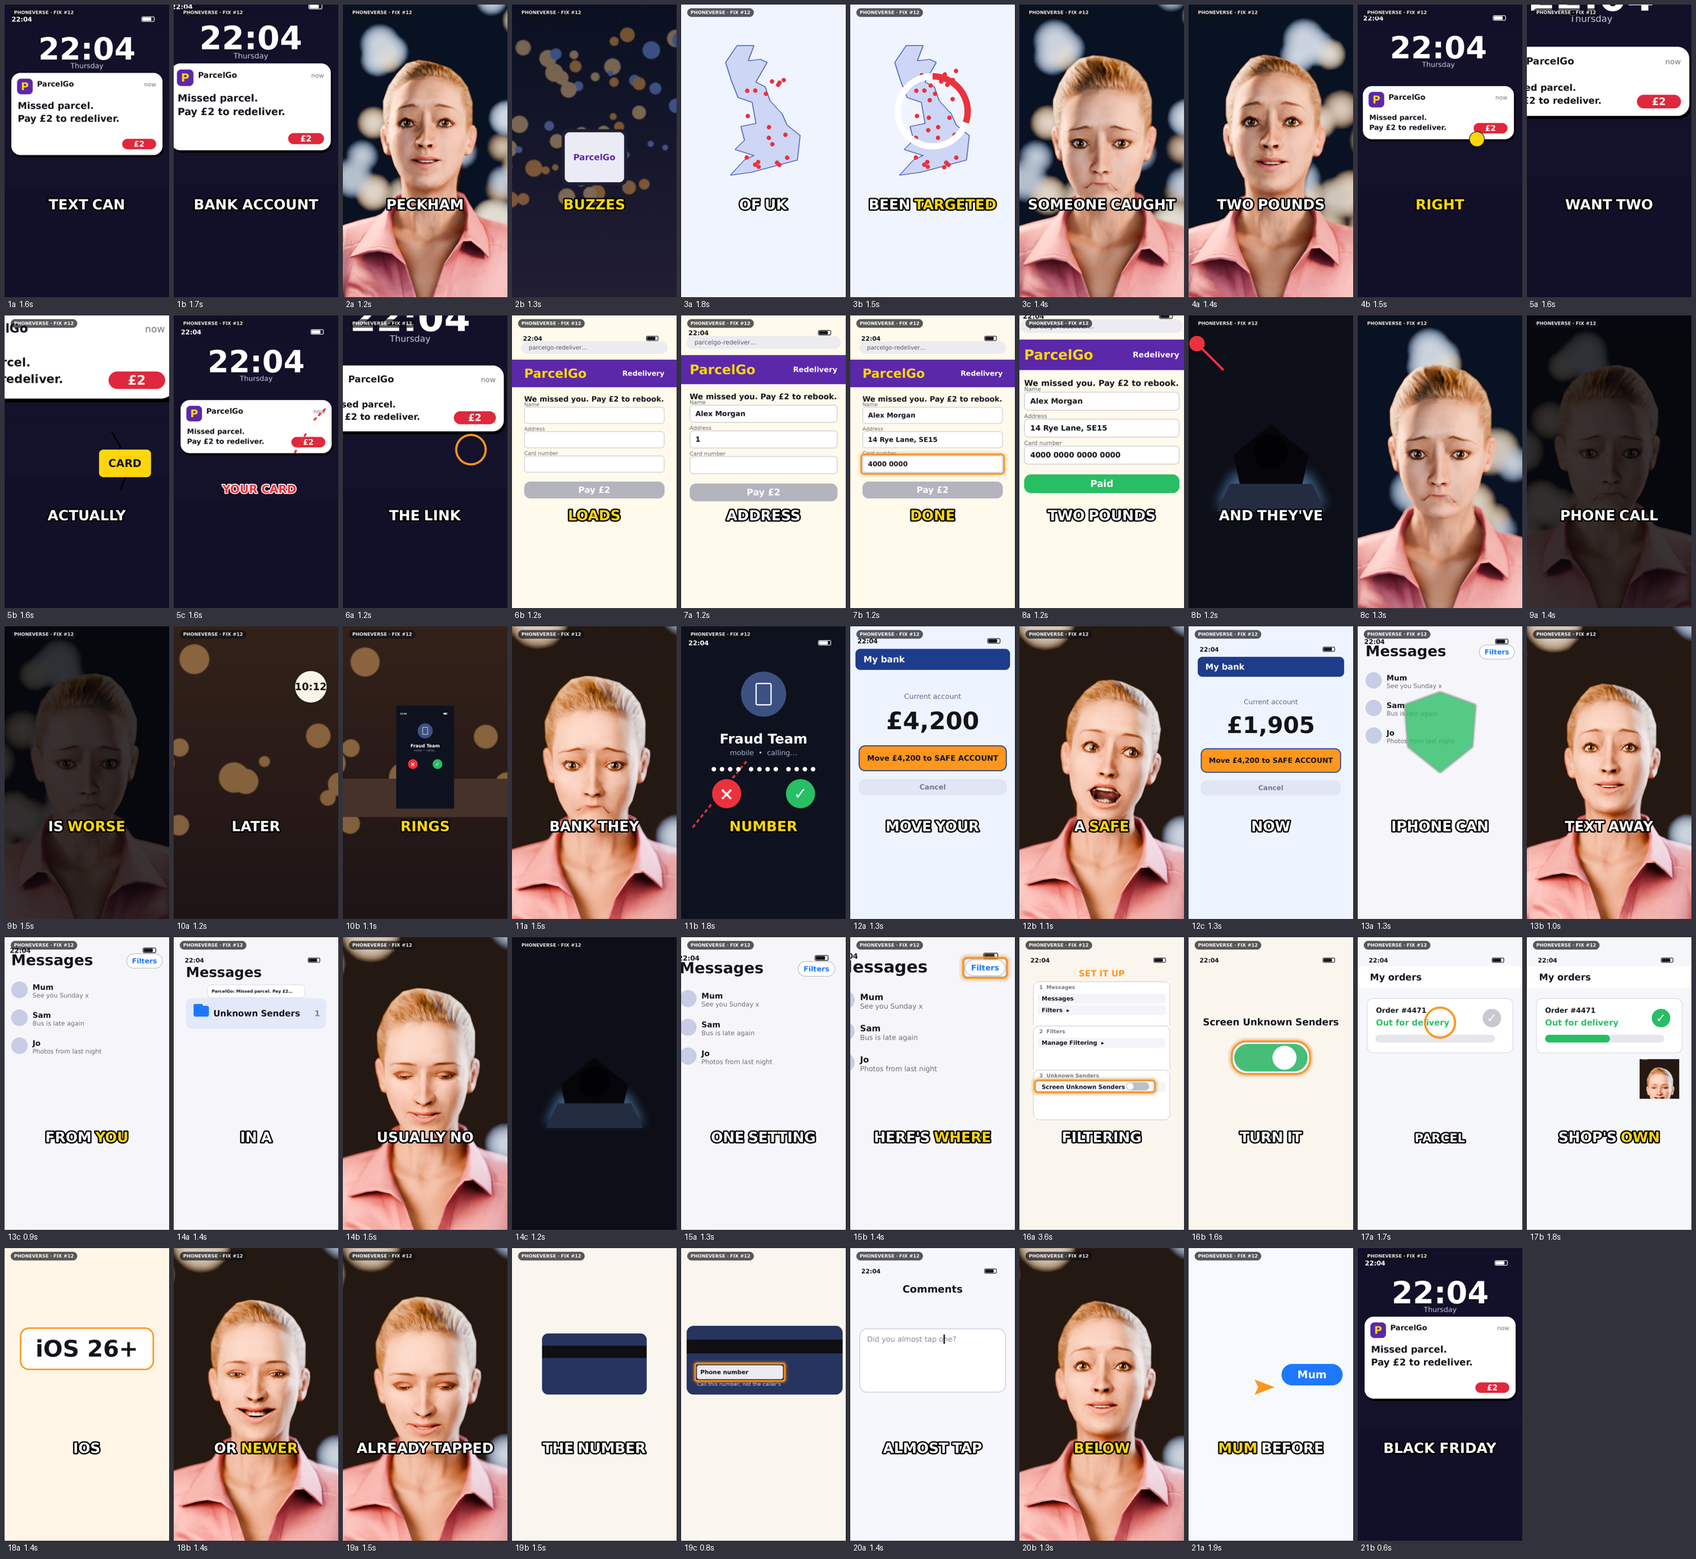
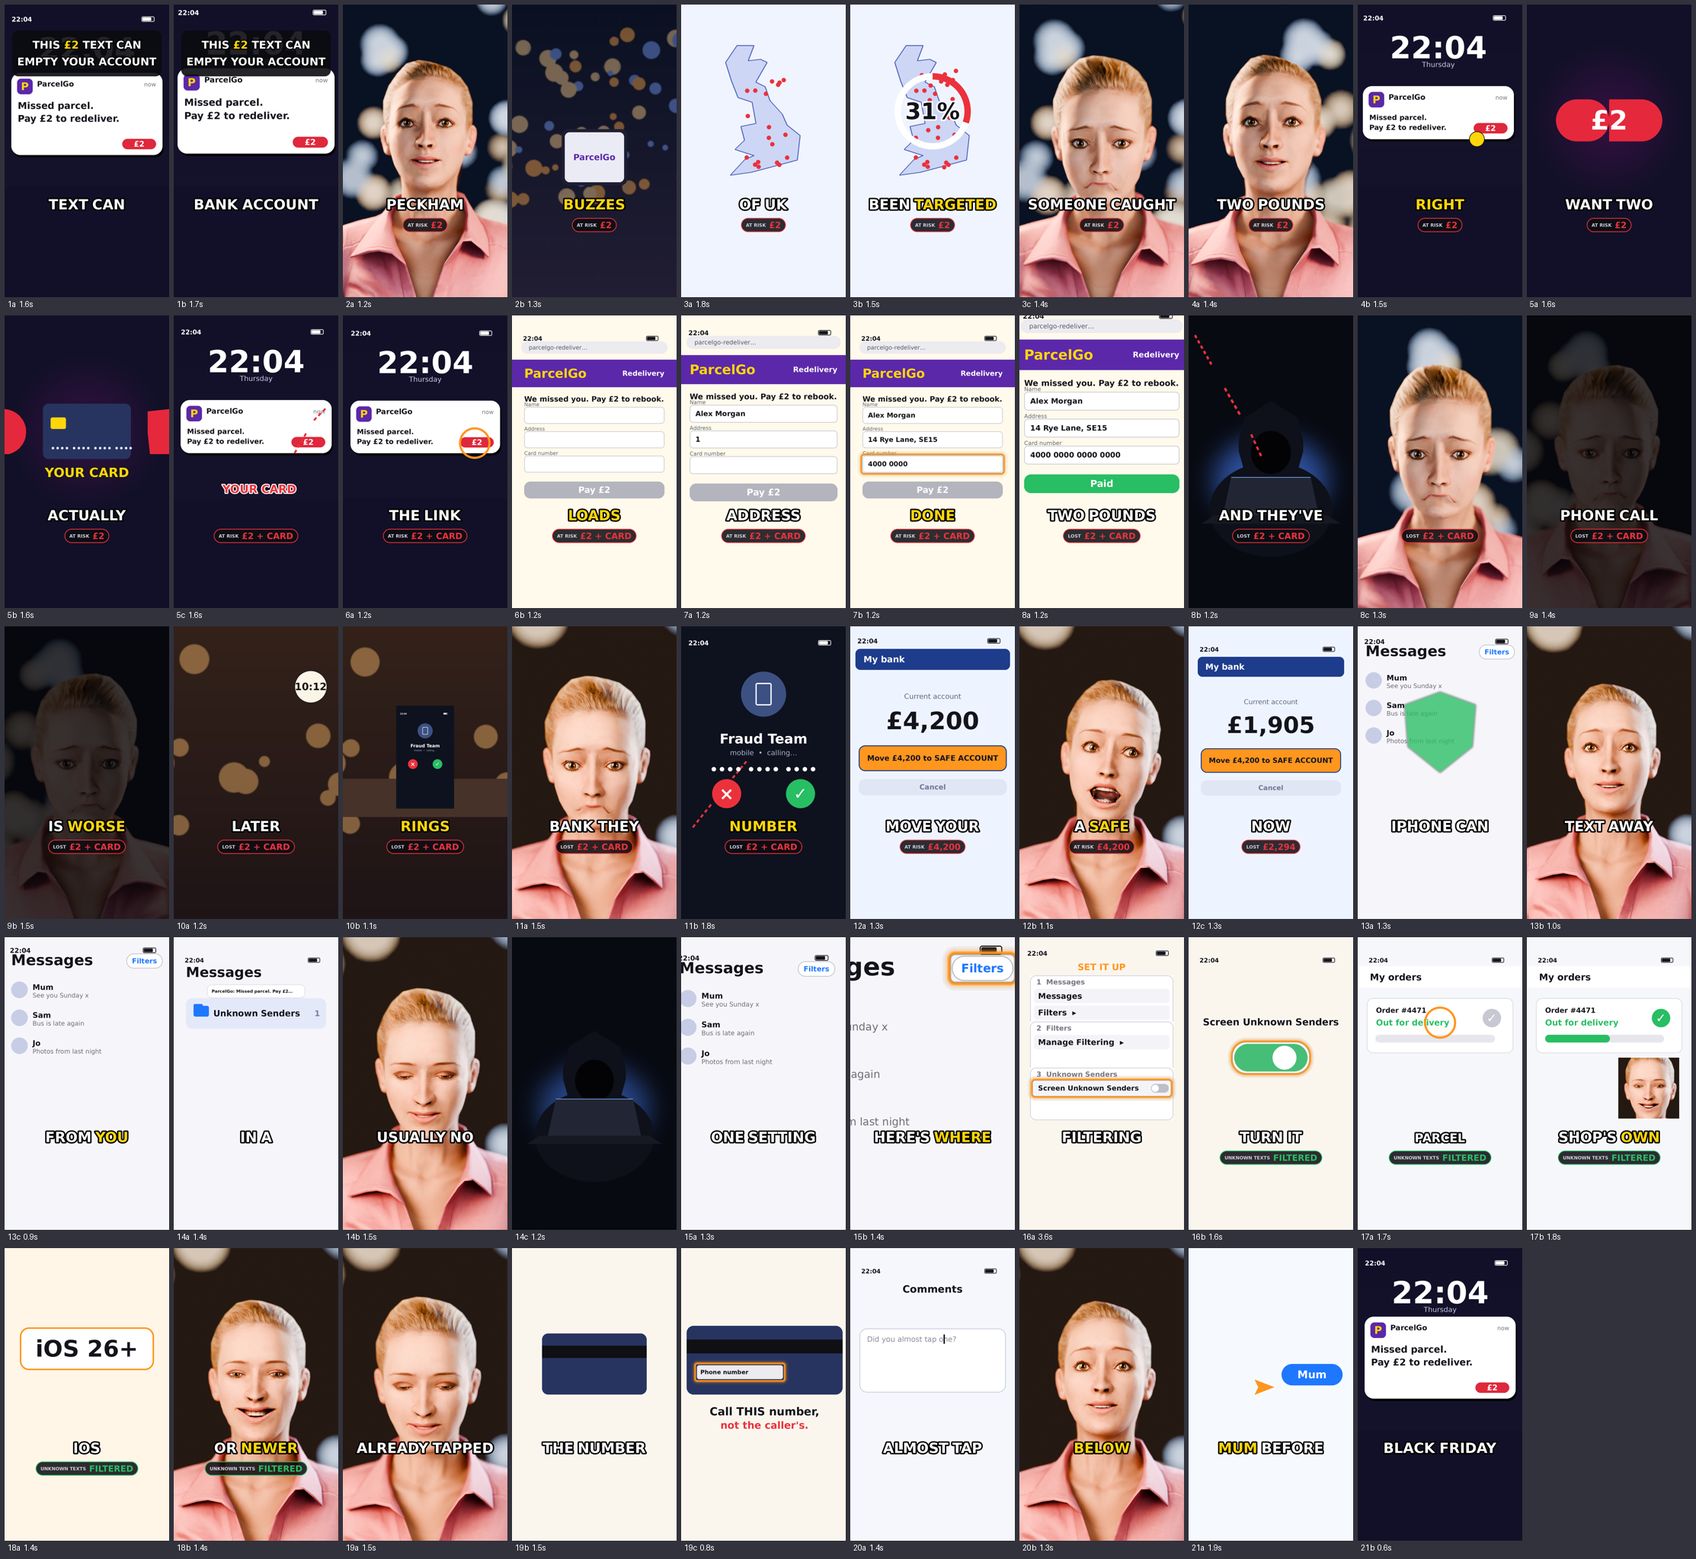
FIX #12 polish (option C): hook title, live risk readout, chip close-ups, hooded figure, bigger small text, no corner tag
Claude-Session: https://claude.ai/code/session_01RDBrbY6BJ5C3xnY2XFgYnR

diff --git a/phoneverse_fix12_studio/render/pvui.py b/phoneverse_fix12_studio/render/pvui.py
@@ -88,9 +88,9 @@ def messages_list(filters_glow=0.0):
 
 def panel(title, rows, glow_row=None, tint=(255, 255, 255)):
     im = Image.new("RGB", (900, 330), tint); d = ImageDraw.Draw(im); rr(d, (0, 0, 899, 329), 36, outline=(205, 205, 215), width=4)
-    text(d, (40, 18), title, 34, (120, 120, 135), True)
+    text(d, (40, 16), title, 44, (120, 120, 135), True)
     for i, r in enumerate(rows):
-        y = 80 + i * 76; rr(d, (30, y, 870, y + 64), 18, fill=(244, 244, 248)); text(d, (56, y + 32), r, 38, INK, True, "lm")
+        y = 84 + i * 104; rr(d, (24, y, 876, y + 90), 20, fill=(244, 244, 248)); text(d, (50, y + 45), r, 50 if len(r) < 20 else 44, INK, True, "lm")
     return im
 
 def settings_card(step=3, toggle_on=False):
@@ -103,9 +103,9 @@ def settings_card(step=3, toggle_on=False):
             if i < 2: text(d, (540, 290 + i * 290 + 300), "▼", 30, ORANGE, True, "mm")
     y0 = 290 + 2 * 290
     if step >= 3:
-        tg = (700, y0 + 76 + 6, 850, y0 + 76 + 58); rr(d, tg, 26, fill=(GREEN if toggle_on else (190, 190, 200)))
+        tg = (850, y0 + 84 + 18, 960, y0 + 84 + 72); rr(d, tg, 26, fill=(GREEN if toggle_on else (190, 190, 200)))
         kx = tg[2] - 26 if toggle_on else tg[0] + 26; d.ellipse((kx - 22, (tg[1] + tg[3]) // 2 - 22, kx + 22, (tg[1] + tg[3]) // 2 + 22), fill=(255, 255, 255))
-        im = glow_box(im, (110, y0 + 76 + 2, 880, y0 + 76 + 62))
+        im = glow_box(im, (110, y0 + 84, 970, y0 + 84 + 90))
     return im
 
 def toggle_closeup(p=1.0):
@@ -142,7 +142,9 @@ def uk_map(p=1.0, ring=0.0, pct=None, dots=24):
     if ring > 0:
         cx, cy, R = 540, 700, 250; d.ellipse((cx - R, cy - R, cx + R, cy + R), outline=(255, 255, 255), width=42)
         d.arc((cx - R, cy - R, cx + R, cy + R), -90, -90 + 360 * (1 / 3) * ease(clamp(ring)), fill=RED, width=42)
-        if pct and ring >= 1: text(d, (cx, cy), pct, 150, INK, True, "mm", stroke=10, stroke_fill=(255, 255, 255)); text(d, (cx, cy + 190), "1 in 3", 70, RED, True, "mm", stroke=8, stroke_fill=(255, 255, 255))
+        if pct:
+            n = int(round(int(pct.rstrip("%")) * ease(clamp(ring)))); text(d, (cx, cy), f"{n}%", 150, INK, True, "mm", stroke=10, stroke_fill=(255, 255, 255))
+            if ring >= 1: text(d, (cx, cy + 190), "1 in 3", 70, RED, True, "mm", stroke=8, stroke_fill=(255, 255, 255))
     return im
 
 def card_back(p=1.0, number_glow=True):
@@ -150,7 +152,7 @@ def card_back(p=1.0, number_glow=True):
     x0 = 540 - w // 2; rr(d, (x0, 560, x0 + w, 960), 40, fill=(40, 52, 96)); d.rectangle((x0, 640, x0 + w, 720), fill=(15, 15, 20))
     if p >= 1:
         rr(d, (x0 + 60, 790, x0 + 560, 870), 12, fill=(235, 235, 240)); text(d, (x0 + 80, 830), "Phone number", 34, INK, True, "lm")
-        text(d, (x0 + 60, 900), "Call this number, not the caller's", 30, (190, 200, 230), False, "lm")
+        text(d, (540, 1060), "Call THIS number,", 64, INK, True, "mm"); text(d, (540, 1140), "not the caller's.", 58, RED, True, "mm")
         if number_glow: im = glow_box(im, (x0 + 60, 790, x0 + 560, 870), r=14)
     return im
 
@@ -193,3 +195,63 @@ if __name__ == "__main__":      # contact sheet of every prop at phone size, for
     for i, (n, im) in enumerate(sheet):
         im = corner_tag(im.convert("RGB")); im = caption(im, ["Check", "this"], [False, True]); S.paste(im.resize((cw, ch)), (10 + (i % cols) * (cw + 10), 10 + (i // cols) * (ch + 10)))
     S.save("docs/props_contact_sheet.png"); print("saved docs/props_contact_sheet.png")
+
+
+# ---- FIX #12 polish pass (option C) -------------------------------------------------------------------------------------
+def chip_closeup(grow=0.0, crack=0.0):
+    """5a/5b: the £2 chip alone, filling the frame (replaces the mid-word crops of the banner). crack 0..1 splits it open on a card."""
+    im = canvas((18, 16, 40)); d = ImageDraw.Draw(im); g = ImageDraw.Draw(im)
+    for r in range(520, 0, -20): g.ellipse((540 - r, 760 - r, 540 + r, 760 + r), fill=(18 + (520 - r) // 14, 16, 40 + (520 - r) // 20))
+    k = 0.82 + 0.18 * ease(clamp(grow)); w, h = int(760 * k), int(300 * k); cx, cy = 540, 760; c = ease(clamp(crack))
+    if c > 0:                                                     # the card behind the chip
+        cw, ch_ = int(620 * (0.7 + 0.3 * c)), int(390 * (0.7 + 0.3 * c)); cb = (cx - cw // 2, cy - ch_ // 2, cx + cw // 2, cy + ch_ // 2)
+        rr(d, cb, 36, fill=(40, 52, 96)); rr(d, (cb[0] + 50, cb[1] + 90, cb[0] + 150, cb[1] + 165), 12, fill=YELLOW)
+        text(d, (cb[0] + 50, cb[3] - 70), "•••• •••• •••• ••••", 48, (230, 230, 240), True, "lm")
+        text(d, (cx, cb[3] + 90), "YOUR CARD", 84, YELLOW, True, "mm", stroke=6, stroke_fill=INK)
+    off = int(520 * c)
+    for side in (-1, 1):                                          # two halves slide apart
+        half = Image.new("RGBA", (w // 2, h), (0, 0, 0, 0)); hd = ImageDraw.Draw(half)
+        hd.rounded_rectangle((0 if side < 0 else -w // 2, 0, w // 2 if side < 0 else w // 2 - 1, h - 1), h // 2, fill=(230, 40, 60, 255))
+        x = cx - w // 2 + (0 if side < 0 else w // 2) + side * off
+        im.paste(half.rotate(side * 8 * c, expand=False), (x, cy - h // 2), half.rotate(side * 8 * c, expand=False))
+    if c < 0.35: text(d, (cx, cy), "£2", int(190 * k), (255, 255, 255), True, "mm")
+    return im
+
+def hooded_figure(slump=0.0, glow=1.0):
+    """8b/14c: a hooded figure behind a laptop, lit only by the screen (replaces the pentagon). No face, no real person."""
+    W_, H_ = W, H; im = Image.new("RGB", (W_, H_), (8, 10, 18)); y = int(640 + 70 * clamp(slump))
+    gl = Image.new("RGBA", (W_, H_), (0, 0, 0, 0)); g = ImageDraw.Draw(gl)
+    g.ellipse((140, y + 120, 940, y + 760), fill=(70, 130, 255, int(150 * glow)))                    # screen glow on the body
+    im = Image.alpha_composite(im.convert("RGBA"), gl.filter(ImageFilter.GaussianBlur(90))).convert("RGBA")
+    fig = Image.new("RGBA", (W_, H_), (0, 0, 0, 0)); f = ImageDraw.Draw(fig)
+    f.ellipse((170, y + 330, 910, y + 900), fill=(14, 16, 26, 255))                                     # shoulders
+    f.polygon([(540, y - 40), (700, y + 60), (735, y + 260), (690, y + 420), (390, y + 420), (345, y + 260), (380, y + 60)], fill=(14, 16, 26, 255))
+    f.ellipse((345, y + 20, 735, y + 430), fill=(14, 16, 26, 255))                                     # hood
+    f.ellipse((420, y + 140, 660, y + 400), fill=(3, 3, 6, 255))                                       # shadowed opening, no face
+    rim = Image.new("RGBA", (W_, H_), (0, 0, 0, 0)); ImageDraw.Draw(rim).bitmap((0, 0), fig.split()[3].filter(ImageFilter.FIND_EDGES), fill=(120, 170, 255, int(200 * glow)))
+    im = Image.alpha_composite(im, rim.filter(ImageFilter.GaussianBlur(3))); im = Image.alpha_composite(im, fig)
+    d = ImageDraw.Draw(im)
+    d.polygon([(300, 1060), (780, 1060), (830, 1290), (250, 1290)], fill=(34, 38, 52))                 # laptop lid (back), no logo
+    d.line([(300, 1060), (780, 1060)], fill=(120, 170, 255), width=4)
+    d.polygon([(200, 1290), (880, 1290), (960, 1340), (120, 1340)], fill=(22, 24, 34))                 # base
+    return im.convert("RGB")
+
+def hud(im, label, value, color=RED):
+    """Live readout, centred under the caption (in the style of the 'G-force' / 'fuel %' tags in the reference shorts)."""
+    out = im.convert("RGBA"); ov = Image.new("RGBA", im.size, (0, 0, 0, 0)); d = ImageDraw.Draw(ov)
+    fv, fl = font(56), font(30); lw = d.textlength(label + "  ", font=fl); vw = d.textlength(value, font=fv)   # one line, centred under the caption
+    w = int(lw + vw) + 64; x0 = (W - w) // 2; y0 = 1400
+    rr(d, (x0, y0, x0 + w, y0 + 92), 46, fill=(12, 12, 18, 220), outline=color + (255,), width=5)
+    d.text((x0 + 32, y0 + 48), label, font=fl, fill=(210, 210, 220, 255), anchor="lm"); d.text((x0 + 32 + lw, y0 + 48), value, font=fv, fill=color + (255,), anchor="lm")
+    out.alpha_composite(ov); return out.convert("RGB")
+
+def hook_title(im, p=1.0):
+    """On-screen hook for the first 3.3 s (from post/post_file.md). Replaces the hand-added TikTok text."""
+    out = im.convert("RGBA"); ov = Image.new("RGBA", im.size, (0, 0, 0, 0)); d = ImageDraw.Draw(ov); a = int(255 * ease(clamp(p * 5)))
+    rr(d, (50, 170, 1030, 470), 40, fill=(10, 10, 16, int(0.9 * a)))
+    f = font(70); y = 265
+    for line in (["THIS ", ("£2", YELLOW), " TEXT CAN"], ["EMPTY YOUR ACCOUNT"]):
+        parts = [(t, (255, 255, 255)) if isinstance(t, str) else t for t in line]; tw = sum(d.textlength(t, font=f) for t, _ in parts); x = (W - tw) / 2
+        for t, c in parts: d.text((x, y), t, font=f, fill=c + (a,), anchor="lm", stroke_width=6, stroke_fill=(0, 0, 0, a)); x += d.textlength(t, font=f)
+        y += 110
+    out.alpha_composite(ov); return out.convert("RGB")

diff --git a/phoneverse_fix12_studio/render/compose.py b/phoneverse_fix12_studio/render/compose.py
@@ -62,32 +62,29 @@ def shot_frame(s, t, test):
     """Returns the content of shot s at local time t (seconds). p = progress through the shot."""
     i, d_ = s["id"], s["dur"]; p = clamp(t / max(d_, 1e-3))
     if i == "1a": im = U.banner(ease(clamp(t / 0.25)), True); return zoom(im, 1.0 + 0.10 * p, 0.5, 0.6)
-    if i == "1b": return zoom(U.banner(1, True), 1.05 + 0.12 * p, 0.78, 0.7)
+    if i == "1b": return zoom(U.banner(1, True), 1.04 + 0.10 * p, 0.5, 0.62)            # C: centred push, no cropped words
     if i == "2a": return slide_in(face("bus_hope", t), p * 3, "r")
     if i == "2b":
         im = plate("bus", t + 5); dd = ImageDraw.Draw(im); U.rr(dd, (330, 820, 750, 1180), 40, fill=(30, 30, 50)); U.rr(dd, (350, 840, 730, 1160), 30, fill=(235, 235, 245)); U.text(dd, (540, 1000), "ParcelGo", 54, U.PURPLE, True, "mm"); return zoom(im, 1.0 + 0.04 * p)
     if i == "3a": return U.uk_map(p * 1.2, 0, None, 30)
-    if i == "3b": return U.uk_map(1, p * 1.5, "34%", 30)
+    if i == "3b": return zoom(U.uk_map(1, p * 1.5, "34%", 30), 1.35 - 0.1 * p, 0.5, 0.33)               # C: punch-in so the 3a->3b cut reads
     if i == "3c": return zoom(face("bus_dread", t), 1.0 + 0.08 * p, 0.5, 0.4)
     if i == "4a": return zoom(face("bus_hope", t + 0.5), 1.0 + 0.05 * p, 0.55, 0.4)
     if i == "4b":
         im = U.banner(1, False); dd = ImageDraw.Draw(im); r = int(70 * (1 - ease(p)) + 16); dd.ellipse((780 - r, 905 - r, 780 + r, 905 + r), fill=U.YELLOW, outline=U.INK, width=4); return zoom(im, 1.0 + 0.1 * p, 0.7, 0.7)
-    if i == "5a": return zoom(U.banner(1, False), 1.1 + 0.5 * p, 0.8, 0.72)
-    if i == "5b":
-        im = zoom(U.banner(1, False), 1.6 + 0.3 * p, 0.8, 0.72); dd = ImageDraw.Draw(im)
-        if p > 0.15:
-            dd.line([(700, 760), (760, 860), (720, 940), (800, 1040), (760, 1140)], fill=(0, 0, 0), width=10); U.rr(dd, (620, 880, 960, 1060), 28, fill=U.YELLOW); U.text(dd, (790, 970), "CARD", 70, U.INK, True, "mm")
-        return im
+    if i == "5a": return U.chip_closeup(p, 0)                                               # C: chip close-up, no mid-word crop
+    if i == "5b": return zoom(U.chip_closeup(1, clamp((p - 0.1) * 1.6)), 1.3 - 0.3 * ease(p), 0.5, 0.4)                           # C: the chip cracks open on the card
     if i == "5c":
         im = U.banner(1, False); im = dashed(im, [(780, 905), (900, 700), (1040, 560)], upto=ease(p)); U.text(ImageDraw.Draw(im), (560, 1130), "YOUR CARD", 70, U.RED, True, "mm", stroke=6, stroke_fill=(255, 255, 255)); return zoom(im, 1.0 + 0.1 * p)
-    if i == "6a": return tapring(zoom(U.banner(1, False), 1.2 + 0.2 * p, 0.8, 0.72), p, (840, 880))
+    if i == "6a": return tapring(zoom(U.banner(1, False), 1.0 + 0.08 * p, 0.5, 0.5), p, (865, 837))   # C: whole banner readable
     if i == "6b": return slide_in(U.parcelgo_page(0), p * 3, "r")
     if i == "7a": return zoom(U.parcelgo_page(p * 0.66), 1.0 + 0.1 * p, 0.5, 0.45)
     if i == "7b":
         im = U.parcelgo_page(0.66 + 0.34 * p); return U.glow_box(im, im.boxes[2], pulse=p) if p > 0.2 else im
     if i == "8a":
         im = U.parcelgo_page(1, paid=True); return zoom(im, 1.0 + 0.2 * p, 0.5, 0.8)
-    if i == "8b": return zoom(silhouette(t, 0, ease(p)), 1.25 - 0.25 * p, 0.5, 0.5)
+    if i == "8b":                                                                                # C: hooded figure, red path into the laptop
+        im = U.hooded_figure(0, 1); return zoom(dashed(im, [(80, 200), (260, 520), (420, 800), (540, 1060)], upto=ease(p), width=14), 1.18 - 0.18 * p, 0.5, 0.55)
     if i == "8c": return zoom(face("bus_dread", t + 0.3), 1.0 + 0.1 * p, 0.5, 0.4)
     if i in ("9a", "9b"):
         base = Image.new("RGB", (W, H), (12, 12, 18)); f = face("bus_dread", t + 0.4).transpose(Image.FLIP_LEFT_RIGHT).point(lambda v: int(v * 0.35)); im = Image.blend(base, f, 0.6)
@@ -110,14 +107,15 @@ def shot_frame(s, t, test):
     if i == "13c": return zoom(U.messages_list(0), 1.0 + 0.15 * p)
     if i == "14a": return U.unknown_folder(p)
     if i == "14b": return zoom(face("kit_soft_relief", t), 1.0 + 0.04 * p, 0.5, 0.4)
-    if i == "14c": return zoom(silhouette(t, p, 0), 1.0 + 0.10 * p, 0.5, 0.55)                                  # QC fix: linear slump + push so the end never freezes
+    if i == "14c": return zoom(U.hooded_figure(p, 1 - 0.35 * p), 1.0 + 0.10 * p, 0.5, 0.55)       # C: figure slumps as the screen dims                                  # QC fix: linear slump + push so the end never freezes
     if i == "15a": return zoom(U.messages_list(0), 1.0 + 0.2 * p, 0.85, 0.15)
     if i == "15b": return zoom(U.messages_list(0.6 + 0.4 * p), 1.7 + 0.25 * p, 0.85, 0.12)                     # QC fix: punch-in so the 15a->15b cut reads
     if i == "16a": return zoom(U.settings_card(1 if t < 0.8 else 2 if t < 1.6 else 3, False), 1.0 + 0.08 * p, 0.5, 0.62)   # QC fix: slow push, no frozen holds
     if i == "16b": return U.toggle_closeup(p * 1.3)
     if i == "17a": return tapring(U.shop_app(0), p, (540, 560))
     if i == "17b":
-        im = U.shop_app(p); f = face("kit_relief", t).resize((300, 533)).crop((20, 40, 280, 300)); im.paste(f, (740, 800)); return im
+        im = U.shop_app(p); f = face("kit_relief", t).resize((560, 996)).crop((80, 240, 480, 640)); dd = ImageDraw.Draw(im)     # C: inset 400 px, not 260
+        U.rr(dd, (594, 784, 1006, 1196), 30, fill=(255, 255, 255)); im.paste(f, (600, 790)); return im
     if i == "18a": return U.text_card("iOS 26+", None, p * 2)
     if i == "18b": return zoom(face("kit_relief", t), 1.0 + 0.05 * p, 0.5, 0.4)
     if i == "19a": return zoom(face("kit_soft_relief", t + 0.4), 1.0 + 0.04 * p, 0.5, 0.4)
@@ -129,11 +127,26 @@ def shot_frame(s, t, test):
     if i == "21b": return zoom(U.banner(ease(clamp(t / 0.25)), True), 1.0 + 0.1 * p, 0.5, 0.6)
     raise KeyError(i)
 
+HOOK_END = 3.323                        # end of shots 1a+1b
+def hud_at(t):
+    """C: live risk readout. Times are shot starts from data/shots.json (not re-timed)."""
+    st = {s["id"]: s for s in SHOTS}; T = lambda i: st[i]["start"]
+    if T("2a") <= t < T("5c"): return ("AT RISK", "£2")
+    if T("5c") <= t < T("8a"): return ("AT RISK", "£2 + CARD")
+    if T("8a") <= t < T("12a"): return ("LOST", "£2 + CARD")
+    if T("12a") <= t < T("12c"): return ("AT RISK", "£4,200")
+    if T("12c") <= t < T("13a"):
+        k = ease(clamp((t - T("12c")) / st["12c"]["dur"])); return ("LOST", f"£{int(4200 * k):,}")
+    if T("16b") <= t < T("19a"): return ("UNKNOWN TEXTS", "FILTERED", U.GREEN)
+    return None
 def caption_at(t):
     c = [x for x in CAPS if x["start"] <= t < x["end"]]; return c[-1] if c else None
 def frame(g, test=False):
     t = g / FPS; s = next(x for x in SHOTS if x["start"] <= t < x["end"]) if t < SHOTS[-1]["end"] else SHOTS[-1]
-    im = shot_frame(s, t - s["start"], test).convert("RGB"); im = U.corner_tag(im); c = caption_at(t)
+    im = shot_frame(s, t - s["start"], test).convert("RGB"); c = caption_at(t)               # C: corner tag removed (sat on the clock)
+    if t < HOOK_END: im = U.hook_title(im, t)
+    h = hud_at(t)
+    if h: im = U.hud(im, *h)
     if c: im = U.caption(im, c["words"], c["star"], (t - c["start"]) / 0.08)
     return im
 

diff --git a/phoneverse_fix12_studio/post/post_file.md b/phoneverse_fix12_studio/post/post_file.md
@@ -3,5 +3,5 @@ Hook: A two-pound text can empty your bank account.
 Pinned comment: Be honest: which parcel text almost got you this year?
 Description: A two-pound text can empty your bank account. It lands in Black Friday week, says a parcel missed you and asks for a redelivery fee, then sends you to a copycat page that wants your card details. Evri says it never charges UK customers for redelivery, so a fee request by text is a scam. With your card details, scammers can ring you posing as your bank and push you to move your savings to a safe account. Barclays research published on 13 November found 34 percent of UK adults have been targeted by a shopping scam, lost money to one or know someone caught out, ahead of Black Friday on 27 November. On an iPhone with iOS 26 or newer, open Messages, tap Filters, tap Manage Filtering, then turn on Screen Unknown Senders. Texts from numbers you have never messaged go to a separate list and usually don't notify you, though time-sensitive ones like verification codes still can. It is off by default; on iOS 18 it is called Filter Unknown Senders. Real parcel updates from new numbers may land there, so track orders in the shop's own app. Forward scam texts to 7726 for free, and report losses to Report Fraud on 0300 123 2040. Already paid? Call your bank on the number on your card. This is an AI-made, fictional scene set in Peckham. Which parcel text almost got you?
 Hashtags: #phoneverse #phonesafety #iphonetips #androidtips #scamalert
-On-screen text hook (by hand): This £2 text can empty your account.
+On-screen text hook: now BURNED IN for the first 3.3 s (render/pvui.py hook_title). Do not add it again by hand. Music still by hand.
 Post: Thu 19 Nov 2026 19:10 UK if QC passes by 17:00, else Fri 20 Nov 19:10 UK. AI-generated label: on.
